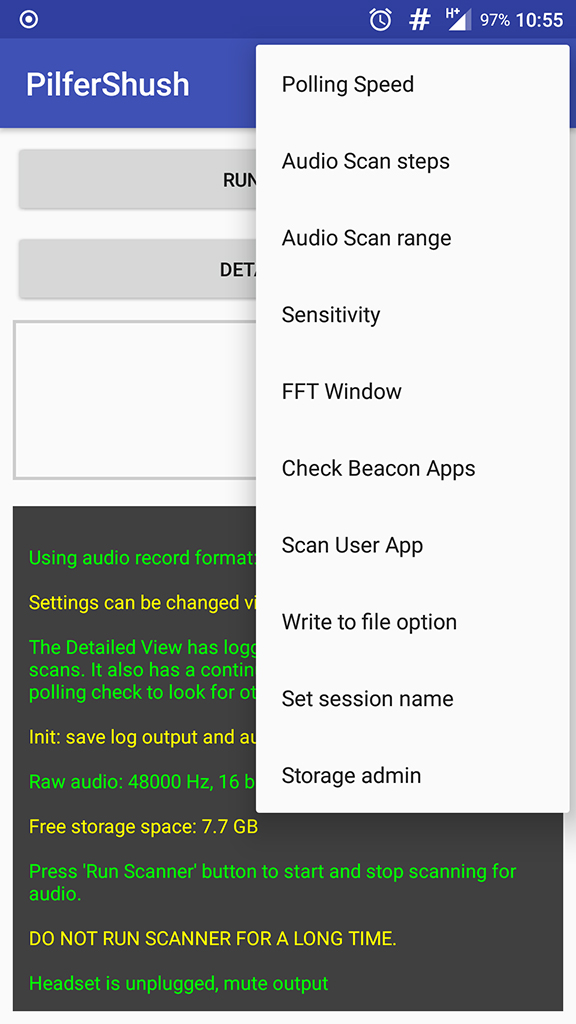
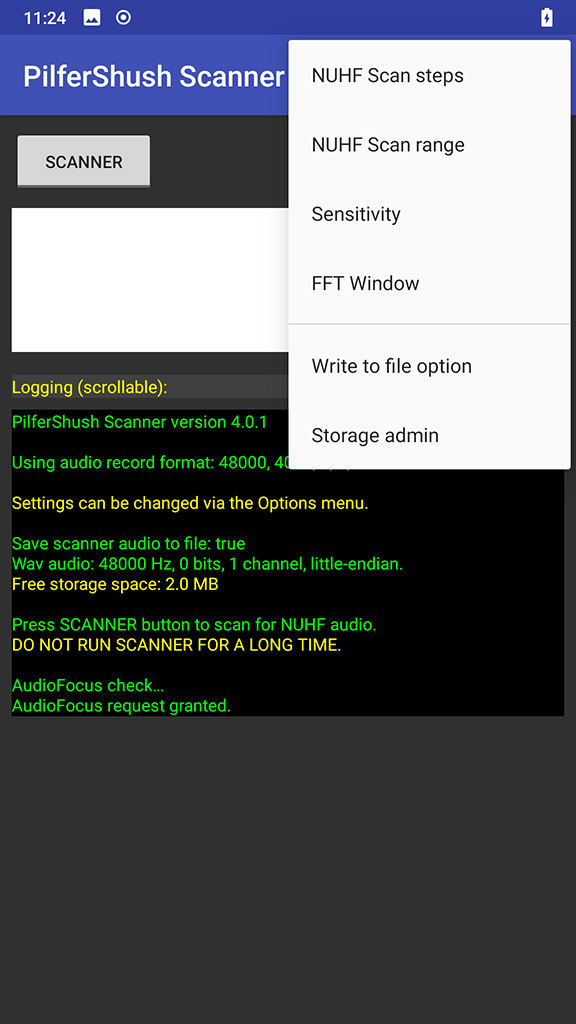
update app images

diff --git a/app/src/main/java/cityfreqs/com/pilfershush/MainActivity.java b/app/src/main/java/cityfreqs/com/pilfershush/MainActivity.java
@@ -38,6 +38,8 @@ import java.util.Map;
 
 import cityfreqs.com.pilfershush.assist.AudioChecker;
 import cityfreqs.com.pilfershush.assist.AudioSettings;
+import cityfreqs.com.pilfershush.assist.WriteProcessor;
+import cityfreqs.com.pilfershush.scanners.AudioScanner;
 
 import static cityfreqs.com.pilfershush.assist.WriteProcessor.MINIMUM_STORAGE_SIZE_BYTES;
 
@@ -67,12 +69,16 @@ public class MainActivity extends AppCompatActivity
     private String[] dbLevel;
     private String[] storageAdmins;
 
+    private int scanBufferSize;
+    private AudioChecker audioChecker;
+    private AudioScanner audioScanner;
+    private WriteProcessor writeProcessor;
+
     private boolean SCANNING;
 
     private PowerManager powerManager;
     private PowerManager.WakeLock wakeLock;
     private HeadsetIntentReceiver headsetReceiver;
-    private PilferShushScanner pilferShushScanner;
     private AudioManager audioManager;
     private AudioManager.OnAudioFocusChangeListener audioFocusListener;
     public static AudioVisualiserView visualiserView;
@@ -201,7 +207,6 @@ public class MainActivity extends AppCompatActivity
     @Override
     protected void onDestroy() {
         super.onDestroy();
-        pilferShushScanner.onDestroy();
     }
 
     /********************************************************************/
@@ -329,13 +334,13 @@ public class MainActivity extends AppCompatActivity
         setFreqMinMax(1); // NUHF freq range
 
         AudioChecker audioChecker = new AudioChecker(this, audioBundle);
-        pilferShushScanner = new PilferShushScanner(this, audioChecker);
 
-        if (pilferShushScanner.initScanner()) {
+        if (initScanner()) {
             // get latest bundle updates bundle
             audioBundle = audioChecker.getAudioBundle();
 
-            pilferShushScanner.checkScanner();
+            //TODO run a boolean here?
+            audioChecker.checkAudioRecord();
 
             toggleHeadset(false); // default state at init
             audioFocusCheck();
@@ -351,26 +356,26 @@ public class MainActivity extends AppCompatActivity
     private void reportInitialState() {
         String startText = getResources().getString(R.string.init_state_1) + VERSION;
         debugText.setText(startText);
-        entryLogger("\n" + getResources().getString(R.string.init_state_2) + pilferShushScanner.getAudioCheckerReport(), false);
+        entryLogger("\n" + getResources().getString(R.string.init_state_2) + getAudioCheckerReport(), false);
         entryLogger("\n" + getResources().getString(R.string.init_state_3), true);
-        entryLogger("\n" + getResources().getString(R.string.init_state_6) + pilferShushScanner.canWriteFiles(), false);
+        entryLogger("\n" + getResources().getString(R.string.init_state_6) + audioBundle.getBoolean(AudioSettings.AUDIO_BUNDLE_KEYS[19]), false);
 
-        if (pilferShushScanner.canWriteFiles()) {
+        if (audioBundle.getBoolean(AudioSettings.AUDIO_BUNDLE_KEYS[19])) {
             entryLogger(getResources().getString(R.string.init_state_7_1) +
-                    pilferShushScanner.getSaveFileType() +
+                    audioChecker.saveFormatToString() +
                     getResources().getString(R.string.init_state_7_2), false);
         }
         else {
             // not using raw file saves
             entryLogger("\n" + getResources().getString(R.string.init_state_8_1) +
-                    pilferShushScanner.getSaveFileType() +
+                    audioChecker.saveFormatToString() +
                     getResources().getString(R.string.init_state_8_2), false);
         }
 
         // run at init for awareness
         entryLogger(getResources().getString(R.string.init_state_9) + printFreeSize(), true);
 
-        int storageSize = pilferShushScanner.cautionFreeSpace();
+        int storageSize = writeProcessor.cautionFreeSpace();
         if (storageSize <= MINIMUM_STORAGE_SIZE_BYTES) {
             // has under a minimum of 2048 bytes , pop a toast.
             if (storageSize == 0 ) {
@@ -462,7 +467,7 @@ public class MainActivity extends AppCompatActivity
                         break;
                     case 1:
                         entryLogger(getResources().getString(R.string.option_dialog_4), true);
-                        pilferShushScanner.clearLogStorageFolder();
+                        writeProcessor.deleteStorageFiles();
                         break;
                     case 2:
                         entryLogger(getResources().getString(R.string.option_dialog_5) + printFreeSize(), false);
@@ -485,13 +490,13 @@ public class MainActivity extends AppCompatActivity
         dialogBuilder.setMessage(R.string.dialog_write_message);
         dialogBuilder.setPositiveButton(R.string.dialog_write_file_yes, new DialogInterface.OnClickListener() {
             public void onClick(DialogInterface dialog, int id) {
-                pilferShushScanner.setWriteFiles(true);
+                audioBundle.putBoolean(AudioSettings.AUDIO_BUNDLE_KEYS[19], true);
                 entryLogger(getResources().getString(R.string.option_dialog_6), false);
             }
         });
         dialogBuilder.setNegativeButton(R.string.dialog_write_file_no, new DialogInterface.OnClickListener() {
             public void onClick(DialogInterface dialog, int id) {
-                pilferShushScanner.setWriteFiles(false);
+                audioBundle.putBoolean(AudioSettings.AUDIO_BUNDLE_KEYS[19], false);
                 entryLogger(getResources().getString(R.string.option_dialog_7), false);
             }
         });
@@ -504,7 +509,7 @@ public class MainActivity extends AppCompatActivity
         dialogBuilder = new AlertDialog.Builder(this);
         dialogBuilder.setItems(freqSteps, new DialogInterface.OnClickListener() {
             public void onClick(DialogInterface dialogInterface, int which) {
-                pilferShushScanner.setFrequencyStep(AudioSettings.FREQ_STEPS[which]);
+                audioBundle.putInt(AudioSettings.AUDIO_BUNDLE_KEYS[16], AudioSettings.FREQ_STEPS[which]);
                 entryLogger(getResources().getString(R.string.option_dialog_9) + AudioSettings.FREQ_STEPS[which], false);
             }
         });
@@ -539,7 +544,7 @@ public class MainActivity extends AppCompatActivity
         dialogBuilder = new AlertDialog.Builder(this);
         dialogBuilder.setItems(dbLevel, new DialogInterface.OnClickListener() {
             public void onClick(DialogInterface dialogInterface, int which) {
-                pilferShushScanner.setMagnitude(AudioSettings.MAGNITUDES[which]);
+                audioScanner.setMagnitude(AudioSettings.MAGNITUDES[which]);
                 entryLogger(getResources().getString(R.string.option_dialog_12) + AudioSettings.DECIBELS[which], false);
             }
         });
@@ -553,7 +558,7 @@ public class MainActivity extends AppCompatActivity
         dialogBuilder.setItems(windowTypes, new DialogInterface.OnClickListener() {
             public void onClick(DialogInterface dialogInterface, int which) {
                 // numerical values from 1-5
-                pilferShushScanner.setFFTWindowType(which + 1);
+                audioBundle.putInt(AudioSettings.AUDIO_BUNDLE_KEYS[18], which + 1);
                 entryLogger(getResources().getString(R.string.option_dialog_13) + AudioSettings.FFT_WINDOWS[which], false);
             }
         });
@@ -563,11 +568,11 @@ public class MainActivity extends AppCompatActivity
     }
 
     private String printUsedSize() {
-        return android.text.format.Formatter.formatShortFileSize(this, pilferShushScanner.getLogStorageSize());
+        return android.text.format.Formatter.formatShortFileSize(this, writeProcessor.getStorageSize());
     }
 
     private String printFreeSize() {
-        return android.text.format.Formatter.formatShortFileSize(this, pilferShushScanner.getFreeStorageSize());
+        return android.text.format.Formatter.formatShortFileSize(this, writeProcessor.getStorageSize());
     }
 
     private void interruptRequestAudio(int focusChange) {
@@ -605,8 +610,65 @@ public class MainActivity extends AppCompatActivity
      *      SCANNER
      */
 
+    private boolean initScanner() {
+        scanBufferSize = 0;
+        audioChecker = new AudioChecker(this, audioBundle);
+
+        entryLogger(getString(R.string.audio_check_pre_1), false);
+        if (audioChecker.determineRecordAudioType()) {
+            entryLogger(getAudioCheckerReport(), false);
+            // get output settings here.
+            entryLogger(getString(R.string.audio_check_pre_2), false);
+            if (!audioChecker.determineOutputAudioType()) {
+                // have a setup error getting the audio for output
+                entryLogger(getString(R.string.audio_check_pre_3), true);
+            }
+            writeProcessor = new WriteProcessor(this, audioBundle);
+            audioScanner = new AudioScanner(this, audioBundle);
+            return true;
+        }
+        return false;
+    }
+
+    private String getAudioCheckerReport() {
+        return ("audio record format: "
+                + audioBundle.getInt(AudioSettings.AUDIO_BUNDLE_KEYS[1]) +
+                ", " + audioBundle.getInt(AudioSettings.AUDIO_BUNDLE_KEYS[4]) +
+                ", " + audioBundle.getInt(AudioSettings.AUDIO_BUNDLE_KEYS[3]) +
+                ", " + audioBundle.getInt(AudioSettings.AUDIO_BUNDLE_KEYS[2]) +
+                ", " + audioBundle.getInt(AudioSettings.AUDIO_BUNDLE_KEYS[0]));
+    }
+
+    private void runAudioScanner() {
+        entryLogger(getString(R.string.main_scanner_18), false);
+        scanBufferSize = 0;
+        if (audioBundle.getBoolean(AudioSettings.AUDIO_BUNDLE_KEYS[19])) {
+            if (!writeProcessor.prepareWriteAudioFile()) {
+                entryLogger(getString(R.string.init_state_15), true);
+            }
+        }
+        audioScanner.runAudioScanner();
+    }
+
+    private void stopAudioScanner() {
+        if (audioScanner != null) {
+            entryLogger(getString(R.string.main_scanner_19), false);
+            // below nulls the recordTask...
+            audioScanner.stopAudioScanner();
+            writeProcessor.audioFileConvert();
+
+            if (audioScanner.canProcessBufferStorage()) {
+                scanBufferSize = audioScanner.getSizeBufferStorage();
+                entryLogger(getString(R.string.main_scanner_20) + scanBufferSize, false);
+            }
+            else {
+                entryLogger(getString(R.string.main_scanner_21), false);
+            }
+        }
+    }
+
     private void runScanner() {
-        if (!pilferShushScanner.checkScanner()) {
+        if (!audioChecker.checkAudioRecord()) {
             // no mic or audio record capabilities
             entryLogger(getResources().getString(R.string.init_state_17), true);
             return;
@@ -614,9 +676,6 @@ public class MainActivity extends AppCompatActivity
         if (wakeLock == null) {
             wakeLock = powerManager.newWakeLock(PowerManager.PARTIAL_WAKE_LOCK, TAG + ":wakelock");
         }
-
-        // update scanner's audioBundle from UI changes if any
-        pilferShushScanner.updateAudioBundle(audioBundle);
 
         SCANNING = true;
         startTime = System.currentTimeMillis();
@@ -627,12 +686,12 @@ public class MainActivity extends AppCompatActivity
         wakeLock.acquire(600000); // timeout in ms (10 mins)
 
         entryLogger(getResources().getString(R.string.main_scanner_10), false);
-        pilferShushScanner.runAudioScanner();
+        runAudioScanner();
     }
 
     private void stopScanner() {
         // do first to free up mic in case of passive jammer interrupt
-        pilferShushScanner.stopAudioScanner();
+        stopAudioScanner();
 
         SCANNING = false;
         timerHandler.removeCallbacks(timerRunnable);
@@ -648,25 +707,25 @@ public class MainActivity extends AppCompatActivity
         // FINISHED, determine type of signal
         entryLogger(getResources().getString(R.string.main_scanner_12), false);
 
-        if (pilferShushScanner.hasAudioScanSequence()) {
+        if (audioScanner.hasFrequencySequence()) {
             entryLogger("\n" + getResources().getString(R.string.main_scanner_13) + "\n", true);
 
             // to main debug view candidate numbers for logic 1,0
-            entryLogger(pilferShushScanner.getModFrequencyLogic(), true);
+            entryLogger(getString(R.string.audio_scan_1) + "\n" + audioScanner.getFrequencySequenceLogic(), true);
 
             // all captures to detailed view:
-            if (pilferShushScanner.getFreqSeqLogicEntries().isEmpty()) {
+            if (audioScanner.getFreqSeqLogicEntries().isEmpty()) {
                 entryLogger("FreqSequence Logic entries empty.", false);
             }
 
             // simple report to main logger
-            entryLogger(getResources().getString(R.string.main_scanner_14) + pilferShushScanner.getFrequencySequenceSize(), true);
+            entryLogger(getResources().getString(R.string.main_scanner_14) + audioScanner.getFrequencySequenceSize(), true);
         }
         else {
             entryLogger(getResources().getString(R.string.main_scanner_16), false);
         }
         // allow freq list processing above first, then
-        pilferShushScanner.resetAudioScanner();
+        audioScanner.resetAudioScanner();
 
         entryLogger("\n" + getResources().getString(R.string.main_scanner_17) + "\n\n", false);
 

diff --git a/README.md b/README.md
@@ -25,8 +25,6 @@ Test application for researching methods of discovering use of NUHF audio beacon
     
  **TODO**
  - fix permissions check functions
- - update images
- - simplify activity.java and scanner.java
  - check AudioSettings and deps for use with AudioBundle
  - check AudioBundle fields, rem jammer types
  - make for FDroid
@@ -37,6 +35,8 @@ Test application for researching methods of discovering use of NUHF audio beacon
  **Changes:**
  - fix write to storage for API 29
  - combine MAIN and DEBUG views
+ - move scanner.java to mainactivity, prep for proper
+ - update app images
 
 
 
@@ -56,14 +56,8 @@ limitations under the License.
 
 Screenshots
 
-- Update UI
-<img src="https://github.com/kaputnikGo/PilferShush_prod/blob/master/images/updateUI-jammers.jpg" height="612px" />
-
 - App open
 <img src="https://github.com/kaputnikGo/PilferShush_prod/blob/master/images/app-open.jpg" height="612px" />
-
-- Detailed View
-<img src="https://github.com/kaputnikGo/PilferShush_prod/blob/master/images/detailed-view.jpg" height="612px" />
 
 - Capture live
 <img src="https://github.com/kaputnikGo/PilferShush_prod/blob/master/images/capture-live.jpg" height="612px" />

diff --git a/CHANGELOG.md b/CHANGELOG.md
@@ -1,6 +1,8 @@
 ### 4.0.1 (unreleased)
 * fix external storage write for API 29
 * combine MAIN and DEBUG views
+* move scanner.java to mainactivity in prep for proper
+* update app images
 
 ### 4.0.0 (27 Aug 2020)
 * Reconfigure app to be Scanner only, no jammer components.
